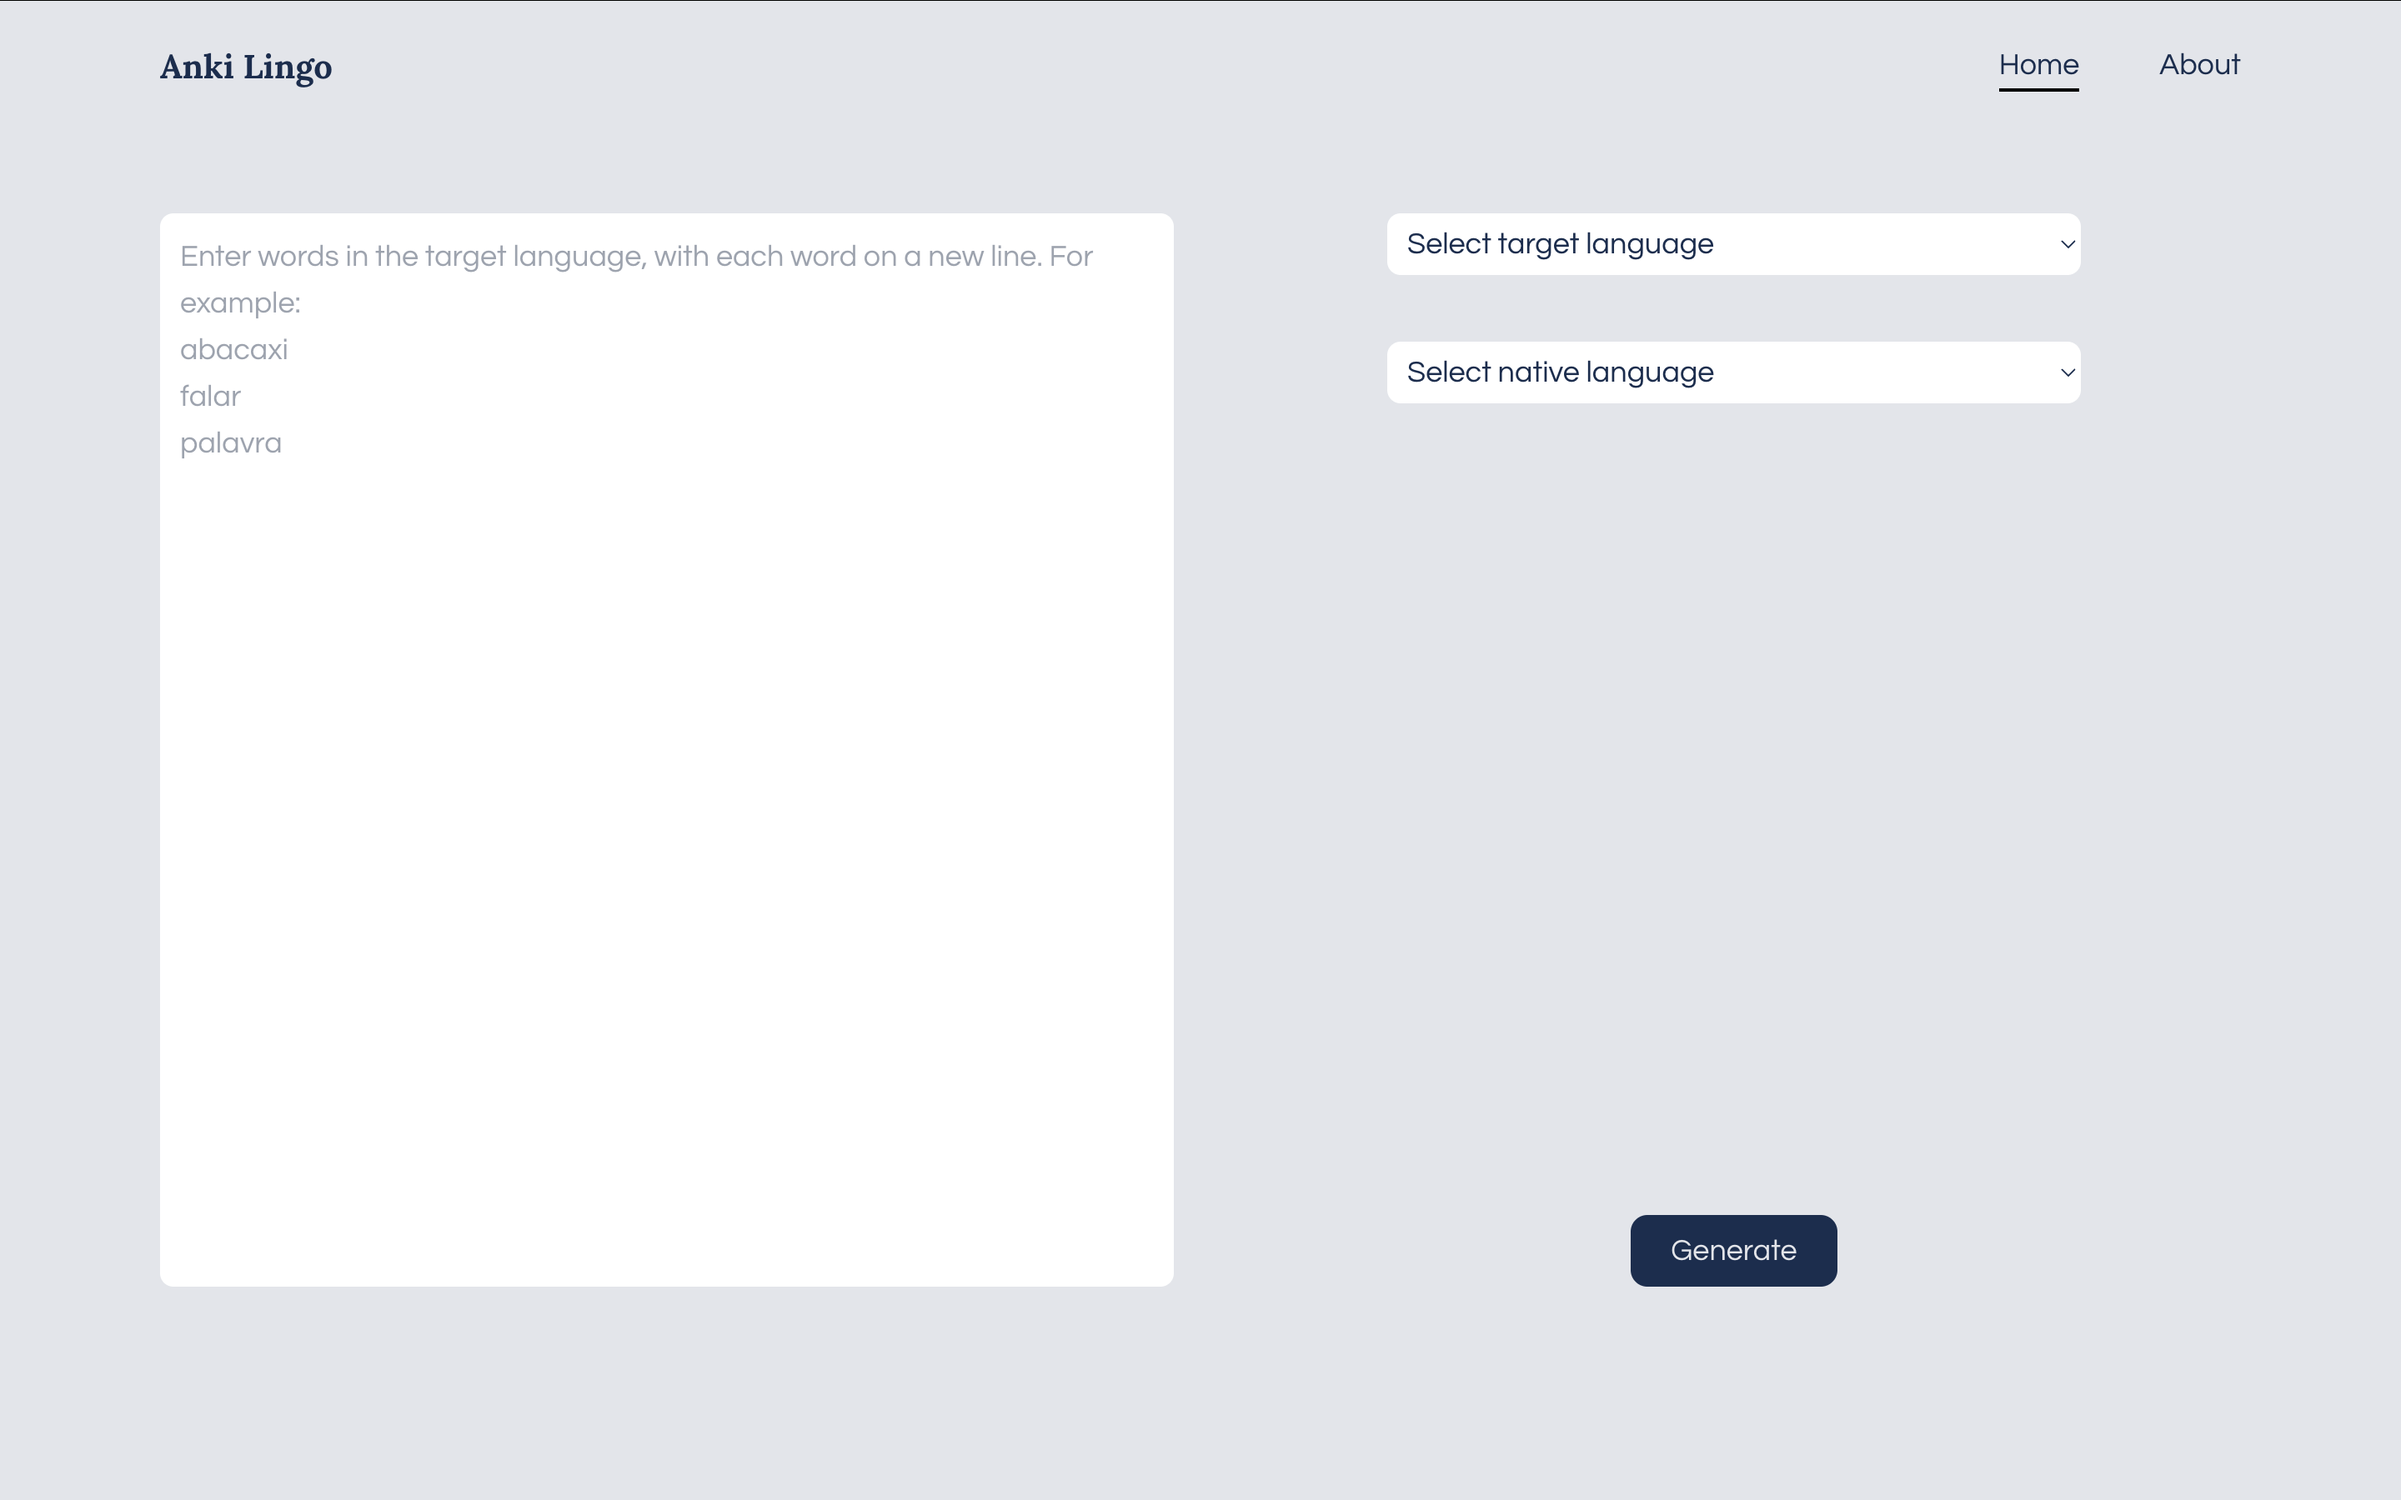
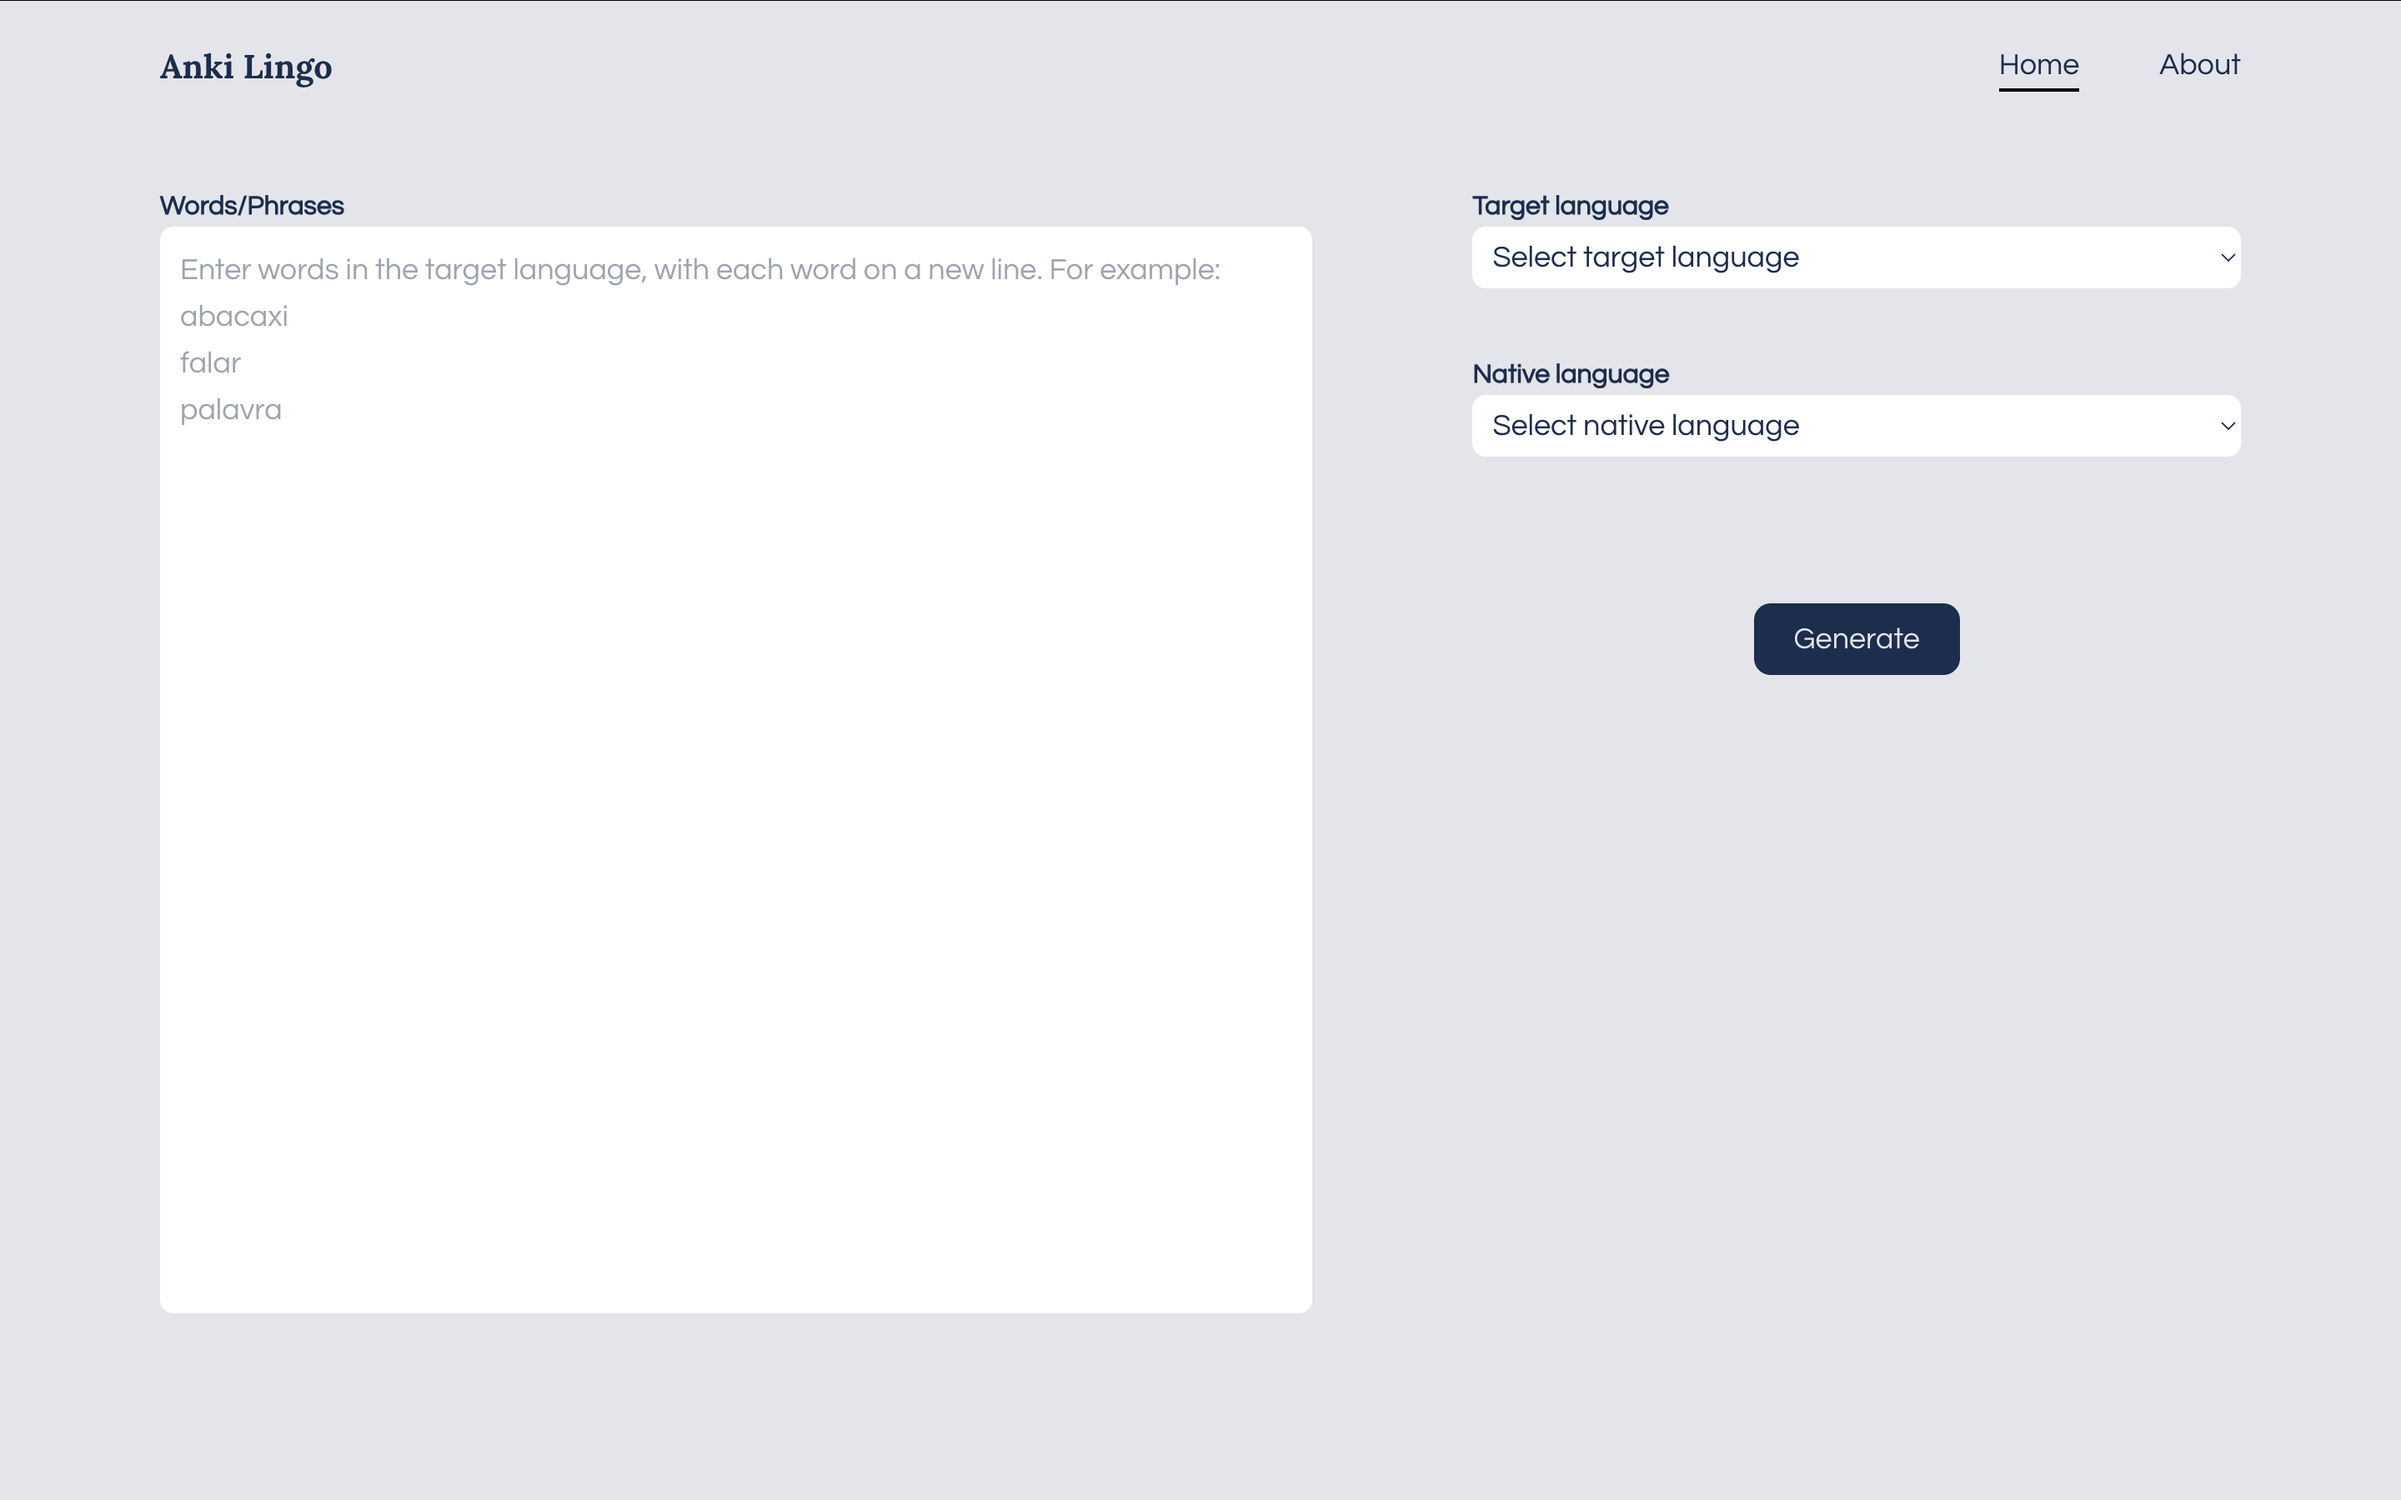
[Feat] Show health checks for scraper endpoints (#18)
* feat: add health checks for endpoints

* feat: show health checks on home page

* UX improvements

* Update images and remove comment

Changed region(s): [[0.0625, 0.1244, 0.9375, 0.9022], [0.6562, 0.8089, 0.7812, 0.8711], [0.7188, 0.4044, 0.8438, 0.4667]]

diff --git a/src/components/forms/ResourceForm.tsx b/src/components/forms/ResourceForm.tsx
@@ -25,9 +25,6 @@ export default function ResourceForm({
   setExportFields,
 }: Props) {
   const [supportedLanguages, setSupportedLanguages] = useState<string[]>([]);
-  const [languageResources, setLanguageResources] = useState<
-    LanguageResource[]
-  >([]);
   const [inputFields, setInputFields] = useState<InputFields>({
     words: "",
     targetLanguage: "",
@@ -37,7 +34,7 @@ export default function ResourceForm({
   const [errors, setErrors] = useState<FormErrors>({} as FormErrors);
 
   useEffect(() => {
-    fetch("/api/supported-languages")
+    fetch("api/supported-languages")
       .then((res) => res.json())
       .then((data) => setSupportedLanguages(data.languages));
   }, []);
@@ -45,17 +42,26 @@ export default function ResourceForm({
   useEffect(() => {
     const language = inputFields.targetLanguage;
     if (language) {
-      fetch(`/api/resources/${inputFields.targetLanguage}`)
+      fetch(`api/resources/${inputFields.targetLanguage}`)
         .then((res) => res.json())
-        .then((data) => setLanguageResources(data.resources));
+        .then(async (data) => {
+          const healthPromises: Promise<boolean>[] = data.resources.map(
+            (resource: LanguageResource) => {
+              return new Promise((res) => {
+                fetch(resource.healthRoute).then((response) => {
+                  resource["isHealthy"] = response.ok;
+                  res(true);
+                });
+              });
+            }
+          );
+          await Promise.all(healthPromises);
+          setInputFields({ ...inputFields, languageResources: data.resources });
+        });
     } else {
-      setLanguageResources([]);
+      setInputFields({ ...inputFields, languageResources: [] });
     }
   }, [inputFields.targetLanguage]);
-
-  useEffect(() => {
-    setInputFields({ ...inputFields, languageResources: languageResources });
-  }, [languageResources]);
 
   useEffect(() => {
     const exportFields = ([] as string[]).concat(
@@ -97,8 +103,11 @@ export default function ResourceForm({
       HTMLInputElement | HTMLTextAreaElement | HTMLSelectElement
     >
   ) {
+    // Clear the resources if the target language changed
     const newInputFields: InputFields = {
       ...inputFields,
+      languageResources:
+        e.target.name === "targetLanguage" ? [] : inputFields.languageResources,
       [e.target.name]: e.target.value,
     };
 
@@ -154,7 +163,7 @@ export default function ResourceForm({
 
   return (
     <motion.form
-      className="py-8 px-20 flex flex-col md:flex-row justify-between w-full min-h-full h-full"
+      className="py-8 px-16 md:px-24 flex flex-col md:flex-row justify-between w-full min-h-full"
       onSubmit={handleSubmit}
       variants={{
         exit: {
@@ -165,7 +174,7 @@ export default function ResourceForm({
       exit="exit"
     >
       <motion.div
-        className="flex-1 p-4"
+        className="flex-[3] mb-6 w-full"
         variants={{
           hidden: { opacity: 0, x: -100 },
           visible: { opacity: 1, x: 0 },
@@ -174,6 +183,7 @@ export default function ResourceForm({
         animate="visible"
         transition={{ duration: 0.75, delay: 0.5 }}
       >
+        <p className="font-bold secondary-text">Words/Phrases</p>
         <textarea
           name="words"
           className="w-full secondary-text h-full min-h-60 resize-none p-3 rounded-lg input text-lg"
@@ -185,8 +195,8 @@ export default function ResourceForm({
         />
         <FormError message={errors.words} />
       </motion.div>
-      <div className="h-full flex-1 p-4 flex flex-col items-center">
-        <div className="flex-1 flex flex-col items-center w-full px-12 md:px-24">
+      <div className="h-full w-full flex-[2] flex flex-col items-center md:pl-24">
+        <div className="flex-1 flex flex-col items-center w-full">
           <motion.div
             className="mb-4 flex flex-col w-full"
             variants={{
@@ -197,6 +207,7 @@ export default function ResourceForm({
             animate="visible"
             transition={{ duration: 0.75, delay: 0.5 }}
           >
+            <p className="font-bold secondary-text">Target language</p>
             <select
               name="targetLanguage"
               className="secondary-text p-2 pr-8 rounded-lg input text-lg"
@@ -224,6 +235,7 @@ export default function ResourceForm({
             animate="visible"
             transition={{ duration: 0.75, delay: 0.75 }}
           >
+            <p className="font-bold secondary-text">Native language</p>
             <select
               name="nativeLanguage"
               className="secondary-text p-2 pr-8 rounded-lg input text-lg"
@@ -246,7 +258,7 @@ export default function ResourceForm({
               inputFields.nativeLanguage &&
               inputFields.nativeLanguage !== inputFields.targetLanguage && (
                 <motion.div
-                  className="flex-1 flex flex-col w-full px-20 my-4"
+                  className="flex-1 flex flex-col w-full my-4"
                   variants={{
                     hidden: { opacity: 0, x: 100 },
                     visible: { opacity: 1, x: 0 },
@@ -296,10 +308,23 @@ export default function ResourceForm({
                           )}
                         </div>
                         {resource.name}
+                        <div
+                          className={`mx-2 w-4 h-4 rounded-full relative ${
+                            resource.isHealthy
+                              ? "green-background"
+                              : "accent-background"
+                          }`}
+                        >
+                          <div className="absolute z-50 opacity-0 hover:opacity-100 w-max bg-white px-2 p-1 rounded-lg text-sm -top-1 transition-all duration-300">
+                            {resource.isHealthy
+                              ? "Working as expected"
+                              : "Might be blocked or broken"}
+                          </div>
+                        </div>
                       </motion.label>
                     );
                   })}
-                  {languageResources.length > 0 && (
+                  {inputFields.languageResources.length > 0 && (
                     <FormError message={errors.languageResources} />
                   )}
                 </motion.div>

diff --git a/src/components/forms/CardFormatForm.tsx b/src/components/forms/CardFormatForm.tsx
@@ -37,7 +37,7 @@ export default function CardFormatForm({
   const MAX_SIDES = 5;
 
   useEffect(() => {
-    fetch("/api/field-mapping")
+    fetch("api/field-mapping")
       .then((res) => res.json())
       .then((data) => setFieldMapping(data));
   }, []);
@@ -76,7 +76,7 @@ export default function CardFormatForm({
   }
 
   function formatCSV() {
-    fetch("/api/format-csv", {
+    fetch("api/format-csv", {
       method: "POST",
       headers: { "Content-Type": "application/json" },
       body: JSON.stringify({

diff --git a/index.html b/index.html
@@ -3,7 +3,7 @@
 
 <head>
   <meta charset="UTF-8" />
-  <link rel="icon" type="image/svg+xml" href="/vite.svg" />
+  <link rel="icon" type="image/svg+xml" href="/favicon.ico" />
   <meta name="viewport" content="width=device-width, initial-scale=1.0" />
   <link rel="preconnect" href="https://fonts.googleapis.com" />
   <link rel="preconnect" href="https://fonts.gstatic.com" crossorigin />

diff --git a/src/components/Header.tsx b/src/components/Header.tsx
@@ -23,7 +23,7 @@ export default function Header() {
 
   return (
     <div
-      className={`header fixed w-screen px-10 sm:px-24 transparent z-10 ${
+      className={`header fixed w-screen px-10 sm:px-24 primary-background z-10 ${
         visible ? "top-0 ease-in" : "-top-20 ease-out"
       } transition-all duration-[400ms]`}
     >

diff --git a/src/types/types.tsx b/src/types/types.tsx
@@ -8,10 +8,12 @@ export interface InputFields {
 export interface LanguageResource {
   name: string;
   route: string;
+  healthRoute: string;
   args: ResourceArgs[];
   outputs: string[];
   supportedLanguages: string[];
   isSelected?: boolean;
+  isHealthy?: boolean;
 }
 
 export enum ResourceArgs {

diff --git a/src/index.css b/src/index.css
@@ -26,6 +26,10 @@
   .accent-text {
     color: #ad343e;
   }
+
+  .green-background {
+    background-color: #34ad83;
+  }
 }
 
 :root {

diff --git a/api/api.py b/api/api.py
@@ -27,6 +27,7 @@ LANGUAGE_RESOURCES = [
     {
         "name": "Word Reference",
         "route": "api/wr/",
+        "healthRoute": "api/wr/français/english/vérifier",
         "args": ["targetLang", "nativeLang", "word"],
         "outputs": ["word", "pos", "definition", "translations", "targetExampleSentences", "nativeExampleSentences"],
         "supportedLanguages": ["english", "español", "português", "français"]
@@ -34,6 +35,7 @@ LANGUAGE_RESOURCES = [
     {
         "name": "SpanishDict",
         "route": "api/spanishdict/",
+        "healthRoute": "api/spanishdict/español/hablar",
         "args": ["targetLang", "word"],
         "outputs": ["word", "pos", "translations", "targetExampleSentences", "nativeExampleSentences"],
         "supportedLanguages": ["english", "español"]
@@ -41,6 +43,7 @@ LANGUAGE_RESOURCES = [
     {
         "name": "Michaelis BR",
         "route": "api/michaelis-br/",
+        "healthRoute": "api/michaelis-br/abacaxi",
         "args": ["word"],
         "outputs": ["word", "pos", "definition", "targetExampleSentences", "expression", "expressionMeaning"],
         "supportedLanguages": ["português"]
@@ -48,6 +51,7 @@ LANGUAGE_RESOURCES = [
     {
         "name": "Forvo",
         "route": "api/forvo/",
+        "healthRoute": "api/forvo/português/abacaxi",
         "args": ["targetLang", "word"],
         "outputs": ["audioFilenames"],
         "supportedLanguages": ["français", "português", "español", "english"]
@@ -55,6 +59,7 @@ LANGUAGE_RESOURCES = [
     {
         "name": "Semanticar BR",
         "route": "api/semanticar-br/",
+        "healthRoute": "api/semanticar-br/abacaxi",
         "args": ["word"],
         "outputs": ["targetExampleSentences"],
         "supportedLanguages": ["português"]
@@ -62,6 +67,7 @@ LANGUAGE_RESOURCES = [
     {
         "name": "Larouse FR",
         "route": "api/larouse-fr/",
+        "healthRoute": "api/larouse-fr/homme",
         "args": ["word"],
         "outputs": ["definition", "targetExampleSentences"],
         "supportedLanguages": ["français"]
